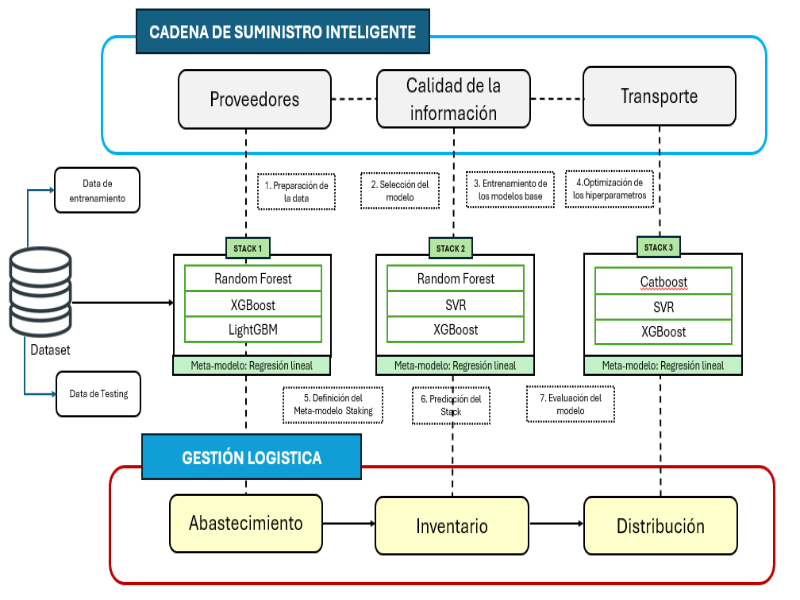
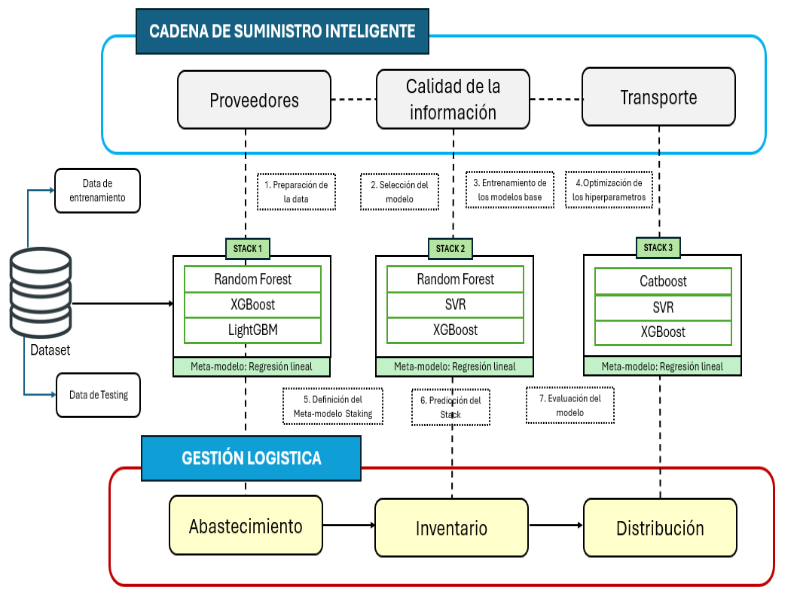
corriginedo imagen de modelo y agregando nueva vista

diff --git a/index.html b/index.html
@@ -179,6 +179,20 @@
         </li>
 
         <!-- Divider -->
+        <hr class="sidebar-divider" />
+
+        <!-- Heading -->
+        <div class="sidebar-heading">Modelo</div>
+
+        <!-- Nav Item -->
+        <li class="nav-item">
+          <a class="nav-link" href="#" onclick="$('#content').load('modelo_predictivo.html')">
+            <i class="fas fa-fw fa-chart-line"></i>
+            <span>Modelo Predictivo</span></a
+          >
+        </li>
+
+        <!-- Divider -->
         <hr class="sidebar-divider d-none d-md-block" />
 
         <!-- Sidebar Toggler (Sidebar) -->
@@ -241,97 +255,85 @@
           <!--CONTENIDO PRINCIPAL DE LA PÁGINA WEB-->
 
           <div class="container">
-
-          <!-- Sección de SEHS -->
-          <div class="container py-5 m-4">
-            <div class="row">
-              <div class="col-12 text-center mb-4">
-                <h1 class="display-4 text-primary fw-bold">SEHS</h1>
-                <p class="lead text-muted">
-                  Promoviendo estilos de vida saludables y calidad de vida
-                </p>
-                <hr class="border-primary" />
+            <!-- Sección de SEHS -->
+            <div class="container py-5 m-4">
+              <div class="row">
+                <div class="col-12 text-center mb-4">
+                  <h1 class="display-4 text-primary fw-bold">SEHS</h1>
+                  <p class="lead text-muted">
+                    Promoviendo estilos de vida saludables y calidad de vida
+                  </p>
+                  <hr class="border-primary" />
+                </div>
               </div>
-            </div>
-          
-            <div class="row g-4">
-              <div class="col-md-6">
-                <div class="card custom-card h-100 shadow-sm">
-                  <div class="card-header custom-card-header">
-                    <h5 class="card-title text-primary">¿Quiénes Son?</h5>
-                  </div>
-                  <div class="card-body">
-                    <div class="row align-items-center">
-                      <div class="col-md-4 mb-3 mb-md-0">
-                        <img
-                          src="https://scontent.flim19-1.fna.fbcdn.net/v/t39.30808-6/395604719_745617624260508_6189999793752451553_n.jpg?_nc_cat=104&ccb=1-7&_nc_sid=6ee11a&_nc_eui2=AeGA4UVZNx-QwFXtGhwgDxWJ0htcuEfSPArSG1y4R9I8Cn_ewSR8HP-OSWDBz53JWJj6pVJUamN274hth4dfq2YZ&_nc_ohc=IwAzUo-hIPcQ7kNvgEqBCie&_nc_zt=23&_nc_ht=scontent.flim19-1.fna&_nc_gid=AvUfZercGAsgS5Cx81NXzYo&oh=00_AYBb6DgZOPDIgrq3oJwZUOKBv93L_bjBt5pJ3ORyhmEmMw&oe=6753AC4B"
-                          alt="SEHS Institución"
-                          class="img-fluid rounded shadow"
-                        />
+
+              <div class="row g-4">
+                <div class="col-md-6">
+                  <div class="card custom-card h-100 shadow-sm">
+                    <div class="card-header custom-card-header">
+                      <h5 class="card-title text-primary">¿Quiénes Son?</h5>
+                    </div>
+                    <div class="card-body">
+                      <div class="row align-items-center">
+                        <div class="col-md-4 mb-3 mb-md-0">
+                          <img
+                            src="https://scontent.flim19-1.fna.fbcdn.net/v/t39.30808-6/395604719_745617624260508_6189999793752451553_n.jpg?_nc_cat=104&ccb=1-7&_nc_sid=6ee11a&_nc_eui2=AeGA4UVZNx-QwFXtGhwgDxWJ0htcuEfSPArSG1y4R9I8Cn_ewSR8HP-OSWDBz53JWJj6pVJUamN274hth4dfq2YZ&_nc_ohc=IwAzUo-hIPcQ7kNvgEqBCie&_nc_zt=23&_nc_ht=scontent.flim19-1.fna&_nc_gid=AvUfZercGAsgS5Cx81NXzYo&oh=00_AYBb6DgZOPDIgrq3oJwZUOKBv93L_bjBt5pJ3ORyhmEmMw&oe=6753AC4B"
+                            alt="SEHS Institución"
+                            class="img-fluid rounded shadow"
+                          />
+                        </div>
+                        <div class="col-md-8">
+                          <p class="card-text">
+                            SEHS es una institución internacional dedicada a la
+                            promoción de estilos de vida saludables y la
+                            prevención de enfermedades a través de la lectura
+                            con valores. Ofrecen una amplia variedad de libros y
+                            materiales educativos.
+                          </p>
+                        </div>
                       </div>
-                      <div class="col-md-8">
-                        <p class="card-text">
-                          SEHS es una institución internacional dedicada a la promoción de estilos de vida saludables y la prevención de enfermedades a través de la lectura con valores. Ofrecen una amplia variedad de libros y materiales educativos.
-                        </p>
+                    </div>
+                  </div>
+                </div>
+
+                <div class="col-md-6">
+                  <div class="card custom-card h-100 shadow-sm">
+                    <div class="card-header custom-card-header">
+                      <h5 class="card-title text-primary">¿Qué Ofrecen?</h5>
+                    </div>
+                    <div class="card-body">
+                      <div class="row align-items-center">
+                        <div class="col-md-4 mb-3 mb-md-0">
+                          <img
+                            src="img/img_libros_sehs.png"
+                            alt="Libros y Materiales"
+                            class="img-fluid rounded shadow"
+                          />
+                        </div>
+                        <div class="col-md-8">
+                          <ul
+                            class="list-group list-group-flush custom-list-group"
+                          >
+                            <li class="list-group-item">
+                              Libros de salud y bienestar
+                            </li>
+                            <li class="list-group-item">
+                              Biblias y literatura cristiana
+                            </li>
+                            <li class="list-group-item">
+                              Himnarios y materiales de canto
+                            </li>
+                            <li class="list-group-item">
+                              Materiales educativos para todas las edades
+                            </li>
+                          </ul>
+                        </div>
                       </div>
                     </div>
                   </div>
                 </div>
               </div>
-          
-              <div class="col-md-6">
-                <div class="card custom-card h-100 shadow-sm">
-                  <div class="card-header custom-card-header">
-                    <h5 class="card-title text-primary">¿Qué Ofrecen?</h5>
-                  </div>
-                  <div class="card-body">
-                    <div class="row align-items-center">
-                      <div class="col-md-4 mb-3 mb-md-0">
-                        <img
-                          src="img/img_libros_sehs.png"
-                          alt="Libros y Materiales"
-                          class="img-fluid rounded shadow"
-                        />
-                      </div>
-                      <div class="col-md-8">
-                        <ul class="list-group list-group-flush custom-list-group">
-                          <li class="list-group-item">Libros de salud y bienestar</li>
-                          <li class="list-group-item">Biblias y literatura cristiana</li>
-                          <li class="list-group-item">Himnarios y materiales de canto</li>
-                          <li class="list-group-item">Materiales educativos para todas las edades</li>
-                        </ul>
-                      </div>
-                    </div>
-                  </div>
-                </div>
-              </div>
             </div>
-          </div>
-          
-          
-
-            <!-- Sección de introducción -->
-            <section id="introduccion" class="section-padding text-center">
-              <div class="container">
-                <h2 class="mb-4">
-                  Modelo Predictivo para la Gestión Logística del SEHS-Norte
-                </h2>
-                <p class="lead mb-4">
-                  En SEHS Norte, implementamos un modelo de cadena de suministro
-                  inteligente basado en tecnologías avanzadas de
-                  <strong>Machine Learning</strong> para optimizar la logística
-                  de abastecimiento, inventario y distribución. Nuestro enfoque
-                  utiliza la metodología <strong>Ensemble Stacking</strong>,
-                  garantizando análisis de datos detallados y decisiones basadas
-                  en predicciones precisas.
-                </p>
-                <img
-                  src="img/modelo_predictivo.png"
-                  alt="Cadena de suministro inteligente"
-                  class="img-fluid rounded shadow"
-                />
-              </div>
-            </section>
 
             <!-- Beneficios de la solución -->
             <section id="beneficios" class="section-padding bg-light-blue">

diff --git a/modelo_predictivo.html b/modelo_predictivo.html
@@ -1,0 +1,34 @@
+<!DOCTYPE html>
+<html lang="en">
+<head>
+    <meta charset="UTF-8">
+    <meta name="viewport" content="width=device-width, initial-scale=1.0">
+    <title>Document</title>
+</head>
+<body>
+    <!-- Sección de introducción -->
+    <div class="contenido">
+        <section id="introduccion" class="section-padding text-center">
+            <div class="container">
+              <h2 class="mb-4">
+                Modelo Predictivo para la Gestión Logística del SEHS-Norte
+              </h2>
+              <p class="lead mb-4">
+                En SEHS Norte, implementamos un modelo de cadena de suministro
+                inteligente basado en tecnologías avanzadas de
+                <strong>Machine Learning</strong> para optimizar la logística
+                de abastecimiento, inventario y distribución. Nuestro enfoque
+                utiliza la metodología <strong>Ensemble Stacking</strong>,
+                garantizando análisis de datos detallados y decisiones basadas
+                en predicciones precisas.
+              </p>
+              <img
+                src="img/modelo_predictivo.png"
+                alt="Cadena de suministro inteligente"
+                class="img-fluid rounded shadow"
+              />
+            </div>
+          </section>
+    </div>
+</body>
+</html>
